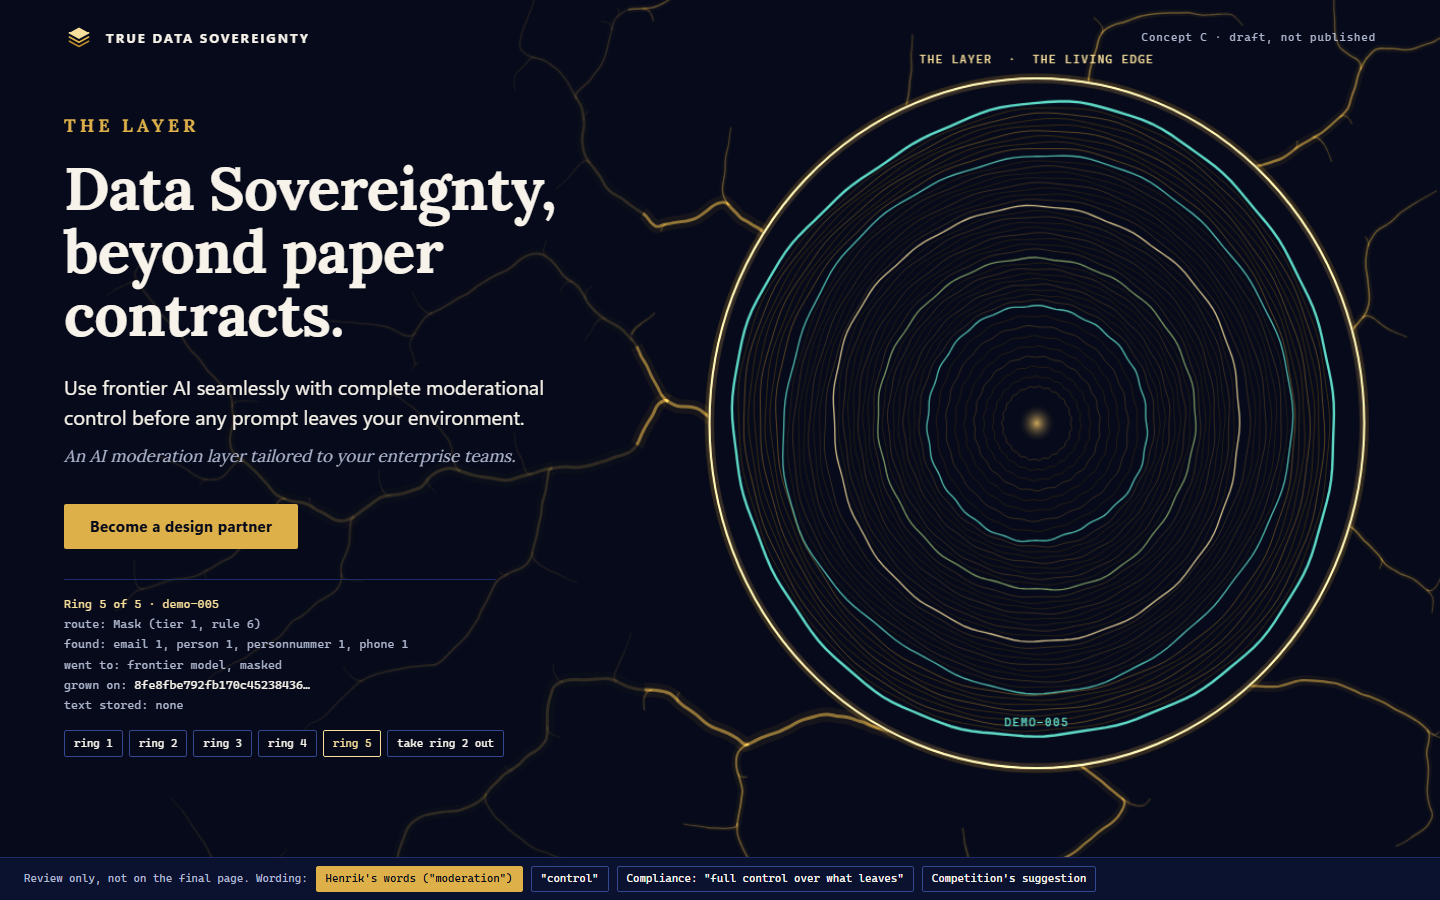
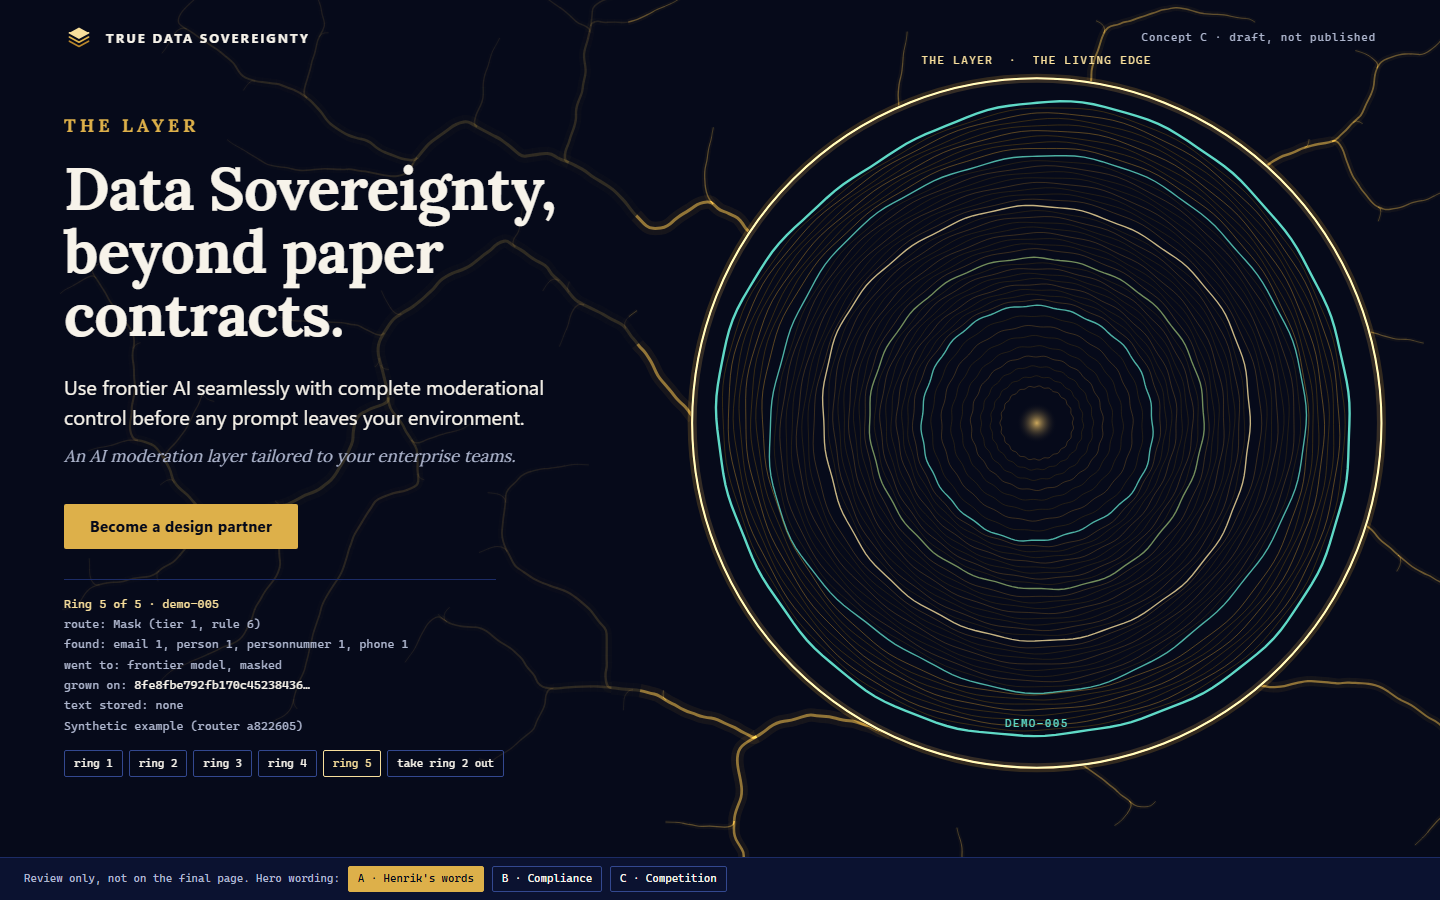
Hero wording toggle A/B/C; ring record labelled Synthetic example

diff --git a/index.html b/index.html
@@ -113,7 +113,7 @@ code,.m{font:400 .92em var(--mono);color:var(--light)}
 /* rings */
 .ringwrap{display:grid;grid-template-columns:minmax(0,1fr) minmax(0,1fr);gap:clamp(24px,5vw,80px);align-items:center;max-width:1160px}
 #ringcv{display:block;width:100%;aspect-ratio:1;max-width:520px;justify-self:center}
-.rec{margin:26px 0 0;padding:14px 0 0;border-top:1px solid var(--marine);font:400 12.5px/1.75 var(--mono);color:var(--mut);min-height:11em;max-width:30rem}
+.rec{margin:26px 0 0;padding:14px 0 0;border-top:1px solid var(--marine);font:400 12.5px/1.75 var(--mono);color:var(--mut);min-height:12.5em;max-width:30rem}
 .rec b{color:var(--light);font-weight:400}.rec .h,.rec .broken{color:var(--ivory)}.rec .h{word-break:break-all}
 .ringbtns{margin:14px 0 0}.ringbtns button{font:400 12px/1 var(--mono);padding:8px 10px}
 .ringbtns .take{border-color:var(--gold);color:var(--light)}
@@ -941,7 +941,7 @@ function SceneRings(cv, rec, btns, cases) {
     rec.innerHTML = removed >= 0 && i > removed
       ? '<span class="broken">Ring ' + (i + 1) + ' no longer fits. It was grown on the ring you took out, and its record carries that ring’s fingerprint. The gap shows in every ring outside it.</span>'
       : '<b>Ring ' + (i + 1) + ' of ' + C.length + ' · ' + a.request_id + '</b><br>route: ' + TIER[C[i].tier][0] + ' (tier ' + a.tier + ', rule ' + a.rule + ')<br>found: ' + n + '<br>went to: ' + out +
-        '<br>grown on: <span class="h">' + a.prev_hash.slice(0, 24) + '…</span><br>text stored: none';
+        '<br>grown on: <span class="h">' + a.prev_hash.slice(0, 24) + '…</span><br>text stored: none<br>Synthetic example (router a822605)';
     btns.querySelectorAll('button[data-i]').forEach(function (b, k) { b.setAttribute('aria-pressed', k === i); });
   }
   C.forEach(function (c, i) {

diff --git a/concepts/concept-c-rings.html b/concepts/concept-c-rings.html
@@ -38,7 +38,7 @@ h1{max-width:9.6em;font:700 clamp(38px,4.7vw,68px)/1.05 "Lora",Georgia,serif;let
 .copy{position:relative;padding:clamp(96px,13vh,150px) clamp(20px,5vw,64px) 120px}
 .copy h1{font-size:clamp(36px,4.2vw,60px)}
 .copy .cta{margin-bottom:0}
-.rec{margin:30px 0 0;padding:14px 0 0;border-top:1px solid var(--marine);max-width:27rem;font:400 12px/1.7 var(--mono);color:var(--mut);min-height:9.5em}
+.rec{margin:30px 0 0;padding:14px 0 0;border-top:1px solid var(--marine);max-width:27rem;font:400 12px/1.7 var(--mono);color:var(--mut);min-height:11em}
 .rec b{color:var(--light);font-weight:400}
 .rec .h{color:var(--ivory);word-break:break-all}
 .rec .broken{color:var(--ivory)}
@@ -337,7 +337,7 @@ var TDS_DATA = {"commit":"a822605","outbound_attempts":0,"cases":[{"parts":[{"li
     rec.innerHTML = removed >= 0 && i > removed
       ? '<span class="broken">Ring ' + (i + 1) + ' no longer fits. It was grown on the ring you took out, and its record carries that ring’s fingerprint. The gap shows in every ring outside it.</span>'
       : '<b>Ring ' + (i + 1) + ' of ' + C.length + ' · ' + a.request_id + '</b><br>route: ' + TIER[C[i].tier][0] + ' (tier ' + a.tier + ', rule ' + a.rule + ')<br>found: ' + n + '<br>went to: ' + out +
-        '<br>grown on: <span class="h">' + a.prev_hash.slice(0, 24) + '…</span><br>text stored: none';
+        '<br>grown on: <span class="h">' + a.prev_hash.slice(0, 24) + '…</span><br>text stored: none<br>Synthetic example (router a822605)';
     btns.querySelectorAll('button').forEach(function (b, k) { if (k < C.length) b.setAttribute('aria-pressed', k === i); });
   }
   C.forEach(function (c, i) {

diff --git a/concepts/src/concept-c-rings.html b/concepts/src/concept-c-rings.html
@@ -10,7 +10,7 @@
 .copy{position:relative;padding:clamp(96px,13vh,150px) clamp(20px,5vw,64px) 120px}
 .copy h1{font-size:clamp(36px,4.2vw,60px)}
 .copy .cta{margin-bottom:0}
-.rec{margin:30px 0 0;padding:14px 0 0;border-top:1px solid var(--marine);max-width:27rem;font:400 12px/1.7 var(--mono);color:var(--mut);min-height:9.5em}
+.rec{margin:30px 0 0;padding:14px 0 0;border-top:1px solid var(--marine);max-width:27rem;font:400 12px/1.7 var(--mono);color:var(--mut);min-height:11em}
 .rec b{color:var(--light);font-weight:400}
 .rec .h{color:var(--ivory);word-break:break-all}
 .rec .broken{color:var(--ivory)}
@@ -127,7 +127,7 @@
     rec.innerHTML = removed >= 0 && i > removed
       ? '<span class="broken">Ring ' + (i + 1) + ' no longer fits. It was grown on the ring you took out, and its record carries that ring’s fingerprint. The gap shows in every ring outside it.</span>'
       : '<b>Ring ' + (i + 1) + ' of ' + C.length + ' · ' + a.request_id + '</b><br>route: ' + TIER[C[i].tier][0] + ' (tier ' + a.tier + ', rule ' + a.rule + ')<br>found: ' + n + '<br>went to: ' + out +
-        '<br>grown on: <span class="h">' + a.prev_hash.slice(0, 24) + '…</span><br>text stored: none';
+        '<br>grown on: <span class="h">' + a.prev_hash.slice(0, 24) + '…</span><br>text stored: none<br>Synthetic example (router a822605)';
     btns.querySelectorAll('button').forEach(function (b, k) { if (k < C.length) b.setAttribute('aria-pressed', k === i); });
   }
   C.forEach(function (c, i) {

diff --git a/src/scenes.js b/src/scenes.js
@@ -159,7 +159,7 @@ function SceneRings(cv, rec, btns, cases) {
     rec.innerHTML = removed >= 0 && i > removed
       ? '<span class="broken">Ring ' + (i + 1) + ' no longer fits. It was grown on the ring you took out, and its record carries that ring’s fingerprint. The gap shows in every ring outside it.</span>'
       : '<b>Ring ' + (i + 1) + ' of ' + C.length + ' · ' + a.request_id + '</b><br>route: ' + TIER[C[i].tier][0] + ' (tier ' + a.tier + ', rule ' + a.rule + ')<br>found: ' + n + '<br>went to: ' + out +
-        '<br>grown on: <span class="h">' + a.prev_hash.slice(0, 24) + '…</span><br>text stored: none';
+        '<br>grown on: <span class="h">' + a.prev_hash.slice(0, 24) + '…</span><br>text stored: none<br>Synthetic example (router a822605)';
     btns.querySelectorAll('button[data-i]').forEach(function (b, k) { b.setAttribute('aria-pressed', k === i); });
   }
   C.forEach(function (c, i) {

diff --git a/src/index.src.html b/src/index.src.html
@@ -85,7 +85,7 @@ code,.m{font:400 .92em var(--mono);color:var(--light)}
 /* rings */
 .ringwrap{display:grid;grid-template-columns:minmax(0,1fr) minmax(0,1fr);gap:clamp(24px,5vw,80px);align-items:center;max-width:1160px}
 #ringcv{display:block;width:100%;aspect-ratio:1;max-width:520px;justify-self:center}
-.rec{margin:26px 0 0;padding:14px 0 0;border-top:1px solid var(--marine);font:400 12.5px/1.75 var(--mono);color:var(--mut);min-height:11em;max-width:30rem}
+.rec{margin:26px 0 0;padding:14px 0 0;border-top:1px solid var(--marine);font:400 12.5px/1.75 var(--mono);color:var(--mut);min-height:12.5em;max-width:30rem}
 .rec b{color:var(--light);font-weight:400}.rec .h,.rec .broken{color:var(--ivory)}.rec .h{word-break:break-all}
 .ringbtns{margin:14px 0 0}.ringbtns button{font:400 12px/1 var(--mono);padding:8px 10px}
 .ringbtns .take{border-color:var(--gold);color:var(--light)}

diff --git a/README.md b/README.md
@@ -29,4 +29,4 @@ python -I shots/shoot.py index.html home   # screenshots; needs: python -m http.
 - No fallback picture for browsers without JavaScript; the text still reads.
 - The body face is the system sans. No font files were added.
 - Subpages: how it works, pilot, trust, platform, extension, MCP.
-- Not committed: `web/` is not a git repository.
+- Commits are local, in a git repository inside `web/site-v3` only. No remote, no push.
